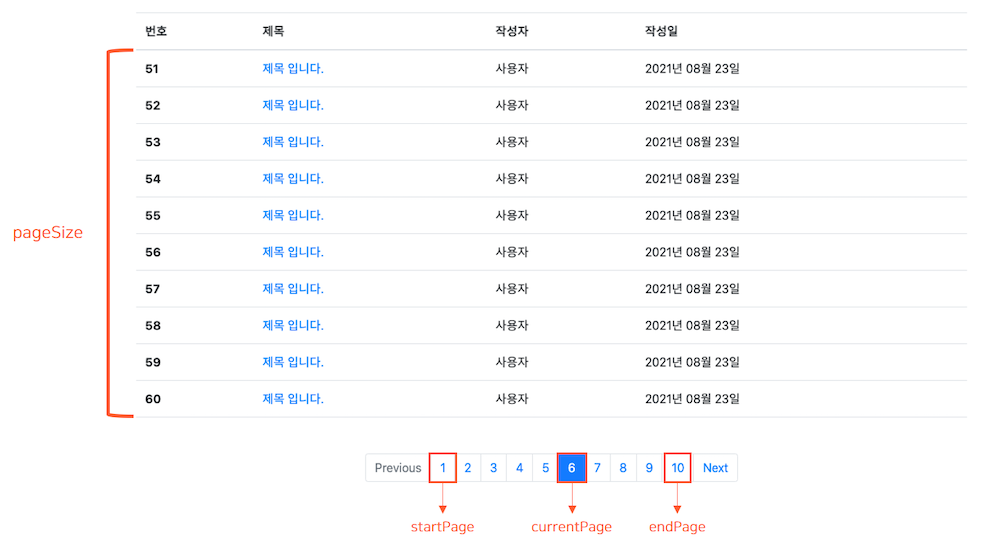
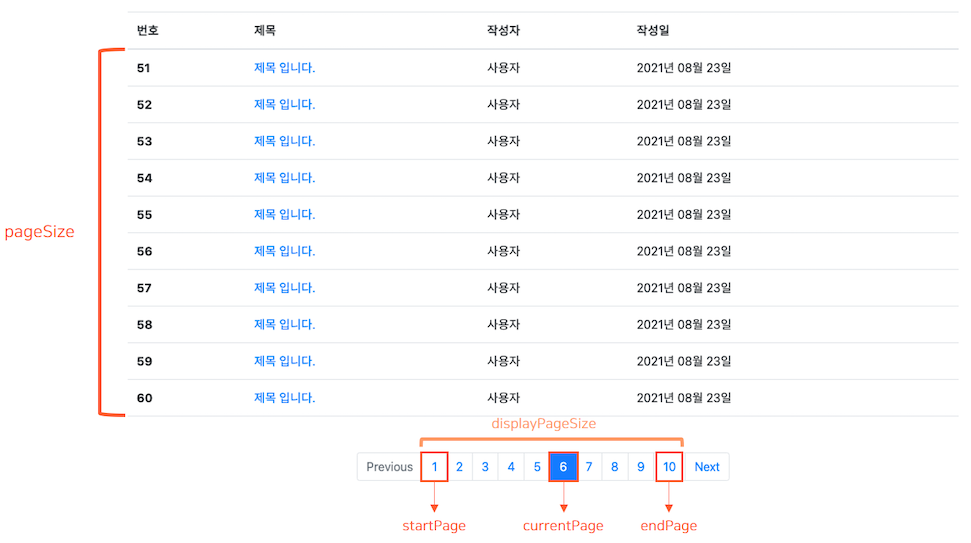
스프링 관련 내용 수정

diff --git a/spring/spring-mvc/PAGING.md b/spring/spring-mvc/PAGING.md
@@ -210,14 +210,15 @@
             private void createPageData(Pageable pageable) {
                 // 스프링 데이터 JPA에서 페이지 번호는 0 부터 시작하며 1 부터 시작 하도록 하기 위해서 1을 추가한다.
                 this.currentPage = pageable.getPageNumber() + 1;
-                this.pageSize = pageable.getPageSize();
+                this.pageSize = pageable.getPageSize();     // 한 페이지에 출력될 데이터(게시글) 수
+                int displayPageSize = 10;                   // 한 화면에 출력될 페이지 수
         
-                // 현재 페이지 번호를 기준으로 화면에 출력되어야 하는 마지막 페이지 번호를 먼저 계산한다.
-                int tempEndPage = (int) (Math.ceil(currentPage / (double) pageSize)) * pageSize;
-        
+                // 현재 페이지 번호(currentPage)를 기준으로 화면에 출력되어야 하는 마지막 페이지 번호를 먼저 계산한다.
+                int tempEndPage = (int) (Math.ceil(currentPage / (double) displayPageSize)) * displayPageSize;
+                
                 // 화면의 시작 페이지 번호는 다음과 같이 처리한다. Ex) 20 - 9 = 11
-                startPage = tempEndPage - (pageSize - 1);
-        
+                startPage = tempEndPage - (displayPageSize - 1);
+                
                 // 실제 데이터가 부족한 경우를 위해 마지막 페이지 번호는 전체 데이터의 개수를 이용해서 다시 계산한다.
                 endPage = tempEndPage < totalPages ? tempEndPage : totalPages;
         
@@ -243,15 +244,17 @@
 
             ![image 62](images/img62.png)
     
-            * 현재 페이지 번호(`currentPage`)가 13이며 한 페이지에 출력할 데이터 수(`pageSize`)가 10이라고 가정한다. 
+            * 현재 페이지 번호(`currentPage`)가 13이며 한 화면에 출력될 페이지 수(`displayPageSize`)가 10이라고 가정한다. 
 
                 * ① 먼저, 현재 페이지 번호를 기준으로 화면에 출력되어야 하는 마지막 페이지 번호(`tempEndPage`)를 계산한다.
                   
-                    * `int tempEndPage = (int) (Math.ceil(currentPage / (double) pageSize)) * pageSize;`
+                    * `int tempEndPage = (int) (Math.ceil(currentPage / (double) displayPageSize)) * displayPageSize;`
         
                         * currentPage : 현재 페이지 번호를 의미한다.
-        
-                        * pageSize : 하나의 페이지에 출력할 데이터의 수를 의미한다.
+    
+                        * displayPageSize : 한 화면에 출력할 페이지 수를 의미한다.
+    
+                            * [참고] pageSize : 한 페이지에 출력할 데이터 수를 의미한다.
         
                     * Ex) Math.ceil(13 / 10.0) * 10  = Math.ceil(1.3) * 10 = 20
     
@@ -259,15 +262,15 @@
         
                 * ② 그리고 시작 페이지 번호는 다음과 같이 계산한다.
     
-                    * `startPage = tempEndPage - (pageSize - 1);`
+                    * `startPage = tempEndPage - (displayPageSize - 1);`
     
                         * tempEndPage : (임시) 마지막 페이지 번호
     
-                        * pageSize : 하나의 페이지에 출력할 데이터의 수를 의미한다.
+                        * displayPageSize : 한 화면에 출력할 페이지 수를 의미한다.
     
                     * Ex) 20 - (10 - 1) = 11
         
-                * ③ 마지막 페이지 번호(`tempEndPage`)는 전체 데이터 개수가 부족한 경우가 발생 할 수 있기 때문에 다시 계산할 필요가 있다.
+                * ③ 마지막 페이지 번호(`tempEndPage`)는 전체 데이터 개수가 부족한 경우가 발생할 수 있기 때문에 다시 계산할 필요가 있다.
     
                     * `endPage = tempEndPage < totalPages ? tempEndPage : totalPages;`
                       
@@ -295,7 +298,7 @@
 
 * (6) 뷰 작성하기
 
-    * Header 작성하기 (`templates/fragments/header.html`)
+    * ① Header를 작성한다. (`templates/fragments/header.html`)
 
         ```html
         <!DOCTYPE html>
@@ -341,7 +344,7 @@
         </head>
         ```
 
-    * 페이징 화면 작성하기 (`templates/posts/list.html`)
+    * ② 페이징을 처리하는 게시글 목록 뷰를 작성한다. (`templates/posts/list.html`)
 
         ```html
         <!DOCTYPE html>

diff --git a/thymeleaf/README.md b/thymeleaf/README.md
@@ -306,10 +306,12 @@
         <span th:text="|hello ${data}|"></span>
         ```
       
-        * `<span th:text="|hello ${data}|">` : 리터럴 대체(Literal substitutions)
+        * 리터럴 대체(Literal substitutions)
     
-            * 리터럴 대체 문법을 사용하면 마치 템플릿을 사용하는 것처럼 편리하다.
-
+            * `|...|` : 문자열을 합칠 수 있다.
+          
+                * Ex) `<span th:text="|hello ${data}|">`
+            
 * (7) 연산
 
     * 타임리프 연산은 자바와 크게 다르지 않다.

diff --git a/spring/spring-core/README.md b/spring/spring-core/README.md
@@ -910,7 +910,11 @@ public class AppRunner implements ApplicationRunner {
 
     * 프로파일 설정을 완료하고 AppRunner를 다시 실행 하면 getActiveProfiles()가 test로 출력되는 것을 확인 할 수 있다.
 
-* ③ `@ActiveProfiles` : 테스트 시 활성화할 프로파일을 지정한다.
+* ③ `application.properties`에서 설정
+
+    * `spring.profiles.active=프로파일명`
+
+* ④ `@ActiveProfiles` : 테스트 시 활성화할 프로파일을 지정한다.
 
 #### 6) 프로파일 표현식
 
